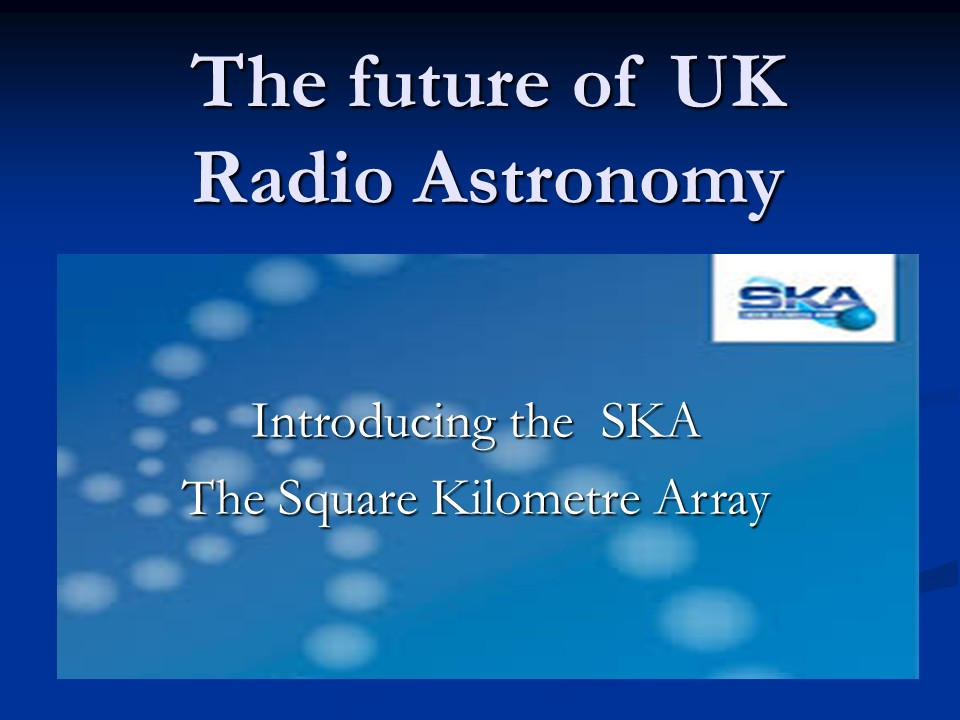
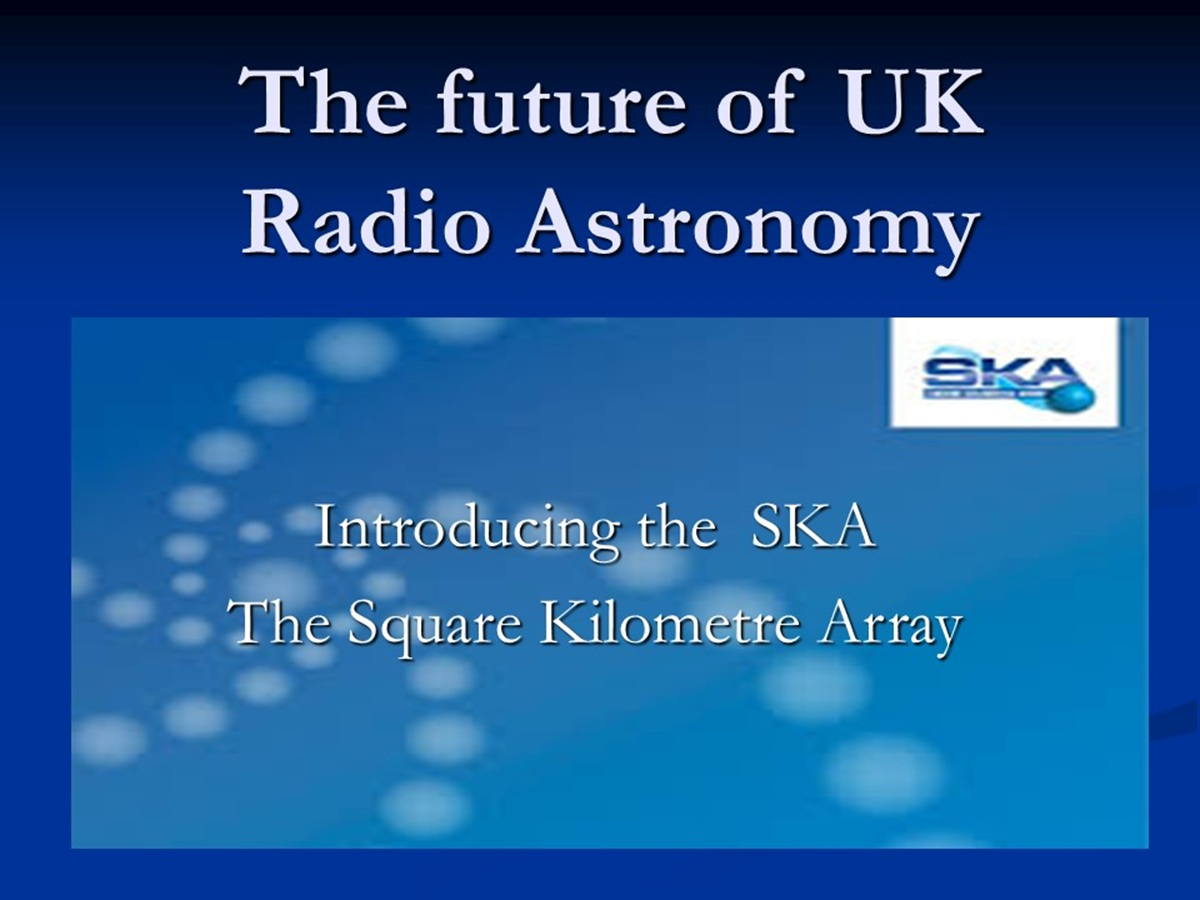
reset
as docs

diff --git a/signage/powerpoint.html b/signage/powerpoint.html
@@ -13,9 +13,9 @@
         }
 
         .slides-container {
-            width: 1080px;
-            height: 560px;
-            margin: 20px auto;
+            width: 960px;
+            height: 540px;
+            margin: 50px auto;
             position: relative;
             box-shadow: 0 0 10px rgba(0, 0, 0, 0.2);
         }
